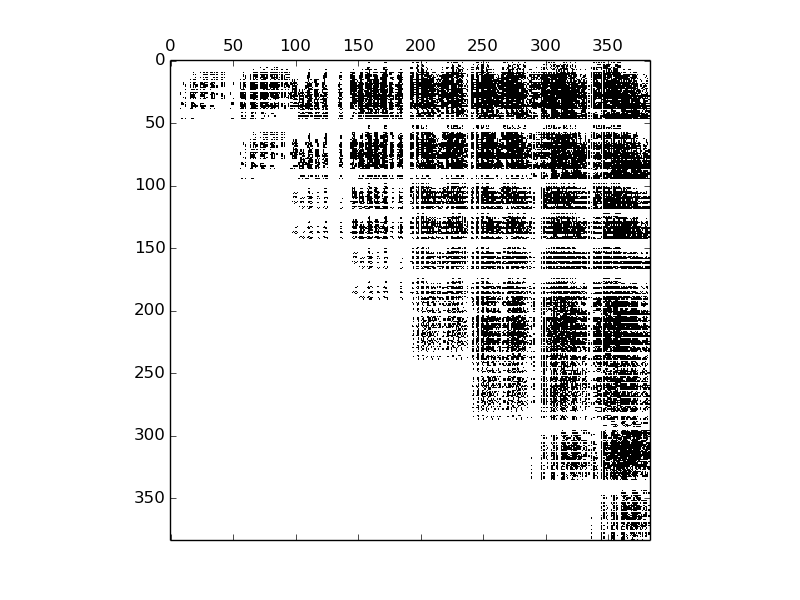
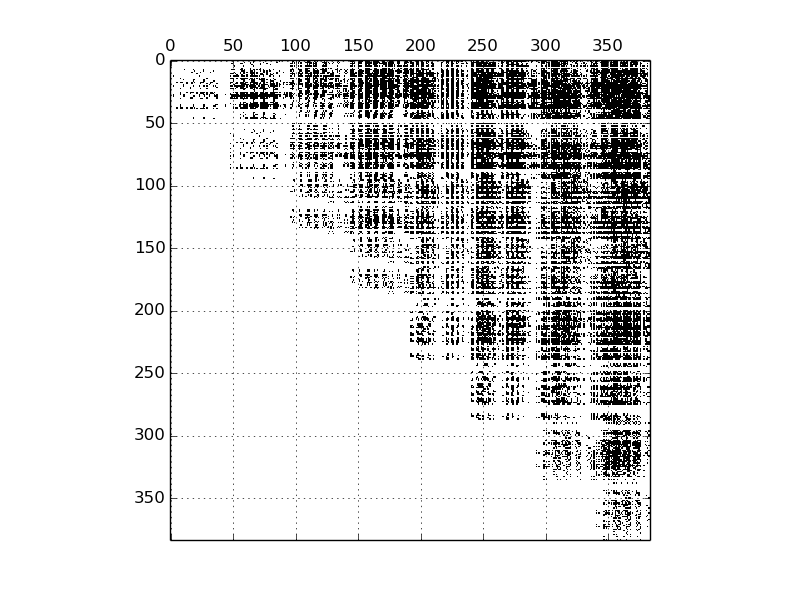
save write1.py

Changed region(s): [[0.2188, 0.09, 0.8125, 0.9]]

diff --git a/python/write1.py b/python/write1.py
@@ -1,0 +1,22 @@
+import numpy as np
+
+m = 10
+n = 3
+deg = [2, 2, 2]
+degrees = np.empty((m, n), dtype=int)
+for j in range(n):
+	degrees[:, j] = np.random.randint(deg[j]+1, size=(m))
+
+k = 0
+
+outfile = open('degrees.txt', 'a')
+outfile.write('$$\\begin{array}{c|' + 'c'*m + '} \n')
+outfile.write(('f_%1d ' + '& '*m + '\\\ \n') %(k+1))
+outfile.write('\\hline \n')
+for j in range(n):
+	outfile.write(('d_%1d ') %(j+1))
+	for i in range(m):
+		outfile.write('& %1d ' %degrees[i, j])
+	outfile.write('\\\ \n')
+outfile.write('\\end{array}$$ \n')
+outfile.close()

diff --git a/python/bezmat.py b/python/bezmat.py
@@ -165,4 +165,4 @@ def block_size(deg):
 
 def _save(B):
 	x = B.reshape(np.prod(B.shape))
-	np.savetxt('/home/jp/Recherche/bezout/article/julia/B.txt', x)
+	np.savetxt('../julia/B.txt', x)

diff --git a/python/bezout.py b/python/bezout.py
@@ -11,8 +11,4 @@ B = bm.block_triang(deg, B)
 
 bm._save(B)
 
-plt.spy(B[0]); plt.grid(); plt.savefig('ref.png')
-
-
-
-
+plt.spy(B[0]); plt.grid(); plt.savefig('../png/ref.png')

diff --git a/python/degrees.tex b/python/degrees.tex
@@ -1,0 +1,6 @@
+\documentclass{article}
+\begin{document}
+
+\input{degrees.txt}
+
+\end{document}
